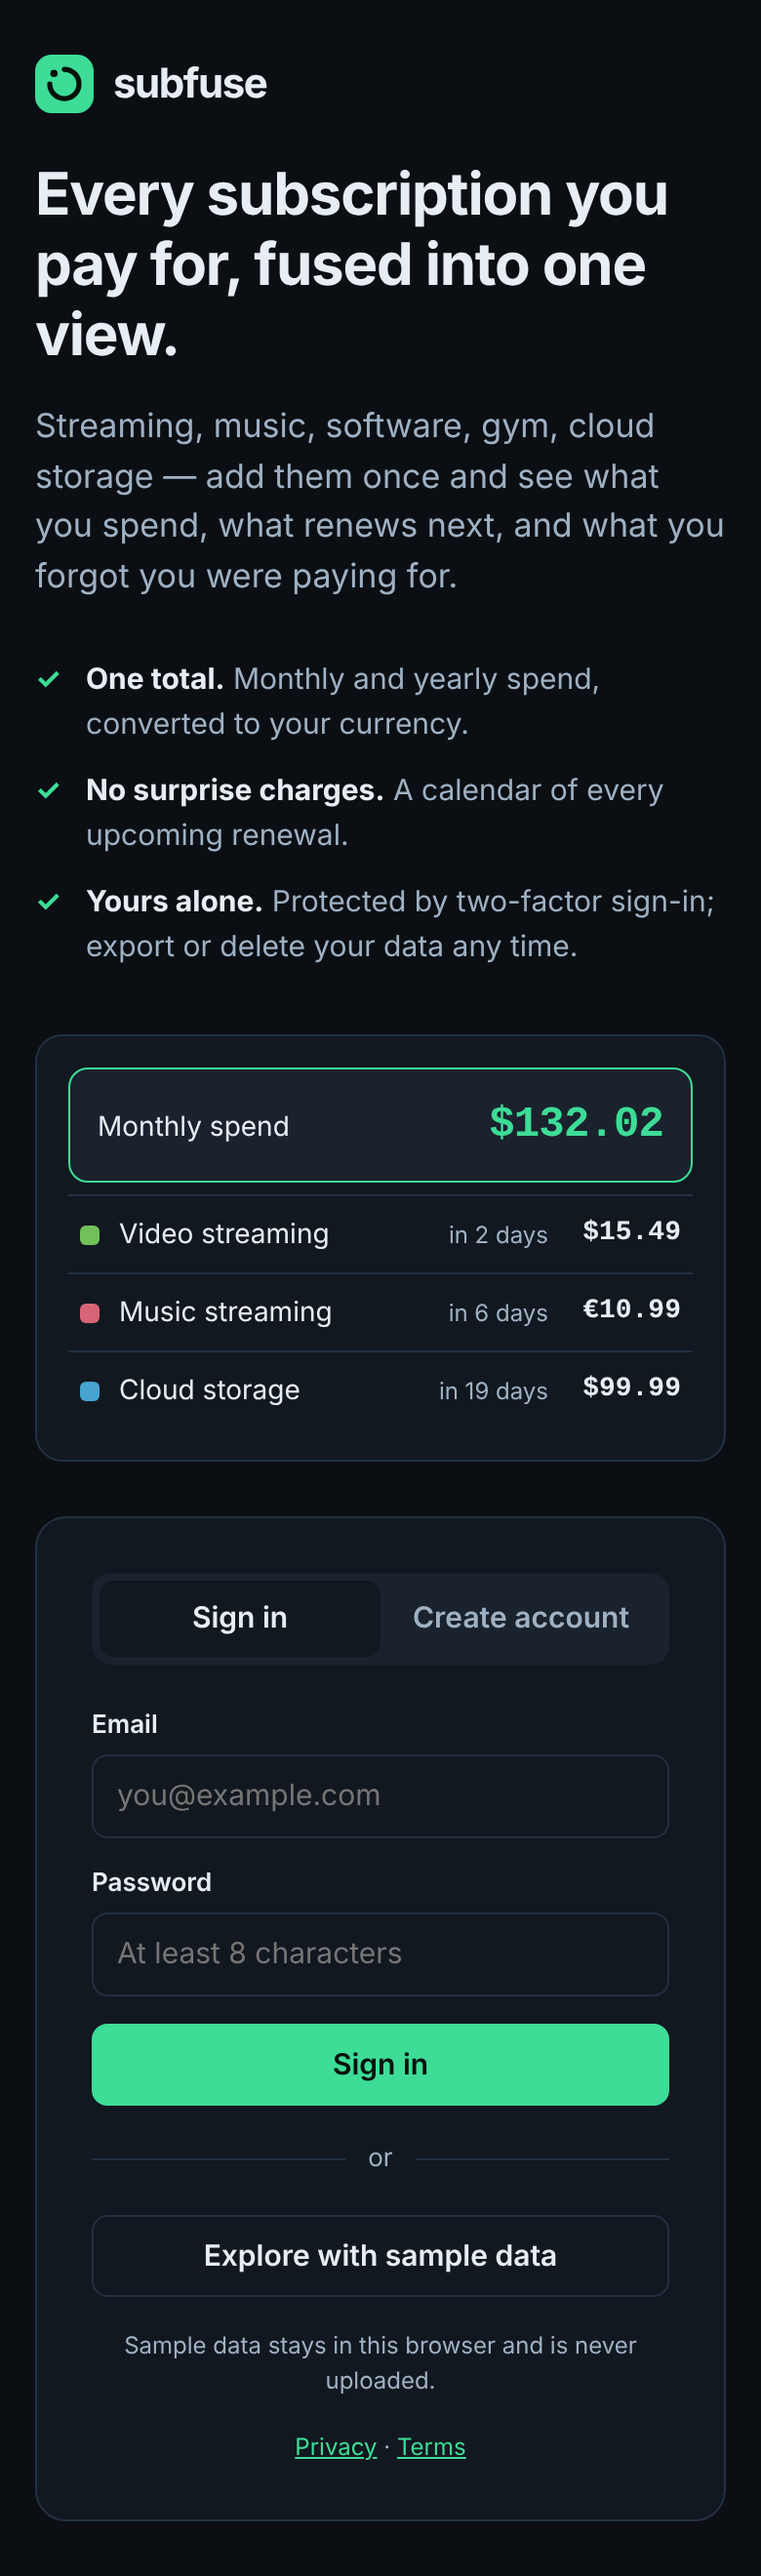
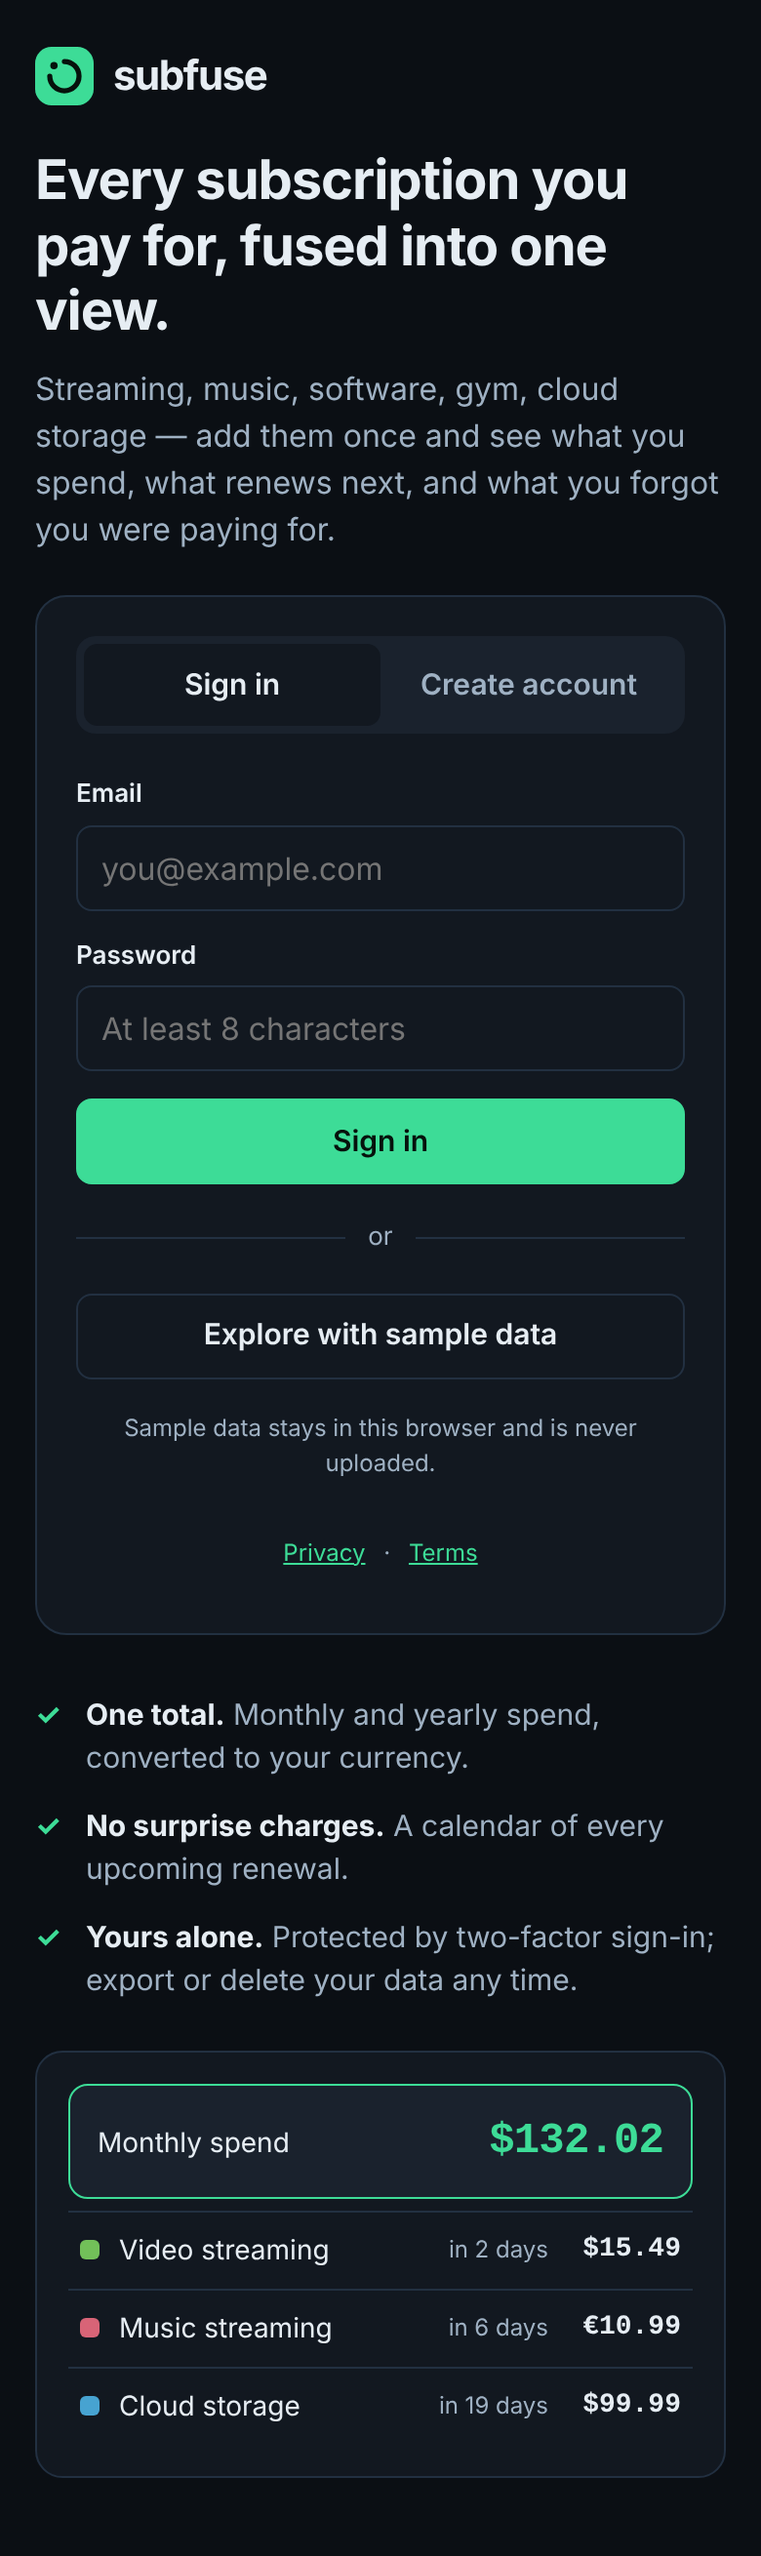
Make every screen work on phones
Sign-in form first, no sideways scrolling down to 320px, larger tap
targets, 16px inputs (no iOS zoom), bottom-sheet dialogs, safe-area
padding, and a calendar that shows dots plus a list of charges.

Claude-Session: https://claude.ai/code/session_01DhdaTEMYwt7wqwKp2ANgVY

diff --git a/server/wwwroot/styles.css b/server/wwwroot/styles.css
@@ -104,6 +104,7 @@ a { color: var(--accent); }
 /* ---------- Auth ---------- */
 .auth {
   min-height: 100vh;
+  min-height: 100dvh;
   display: grid;
   grid-template-columns: minmax(0, 1.1fr) minmax(340px, 440px);
   gap: 56px;
@@ -211,7 +212,7 @@ a { color: var(--accent); }
 .list li:first-child { border-top: 0; padding-top: 0; }
 .list .grow { flex: 1; min-width: 0; }
 .list .name { font-weight: 600; }
-.pill { display: inline-block; padding: 2px 8px; border-radius: 99px; font-size: 12px; font-weight: 600; background: var(--surface-2); color: var(--muted); }
+.pill { display: inline-block; white-space: nowrap; padding: 2px 8px; border-radius: 99px; font-size: 12px; font-weight: 600; background: var(--surface-2); color: var(--muted); }
 .pill.soon { background: var(--warn-bg); color: var(--warn-ink); }
 .empty { color: var(--muted); text-align: center; padding: 28px 12px; margin: 0; }
 
@@ -244,6 +245,8 @@ a { color: var(--accent); }
 .cal-cell.is-today { border-color: var(--accent); }
 .cal-cell.is-today .cal-day { color: var(--accent); font-weight: 700; }
 .cal-day { color: var(--muted); margin-bottom: 4px; }
+.agenda { display: none; margin-top: 16px; }
+.agenda-day { flex: none; width: 62px; color: var(--muted); font-size: 13px; }
 .cal-event { font-family: var(--mono); font-size: 11px; background: var(--accent-soft); color: var(--text); border-radius: 5px; padding: 2px 6px; margin-top: 3px; display: flex; justify-content: space-between; gap: 6px; }
 .cal-event span:first-child { overflow: hidden; text-overflow: ellipsis; white-space: nowrap; }
 #cal-total { margin: 14px 0 0; }
@@ -263,6 +266,7 @@ a { color: var(--accent); }
 dialog {
   border: 1px solid var(--border); border-radius: 16px; padding: 24px;
   width: min(460px, calc(100vw - 32px));
+  max-height: calc(100dvh - 32px); overflow-y: auto;
   background: var(--surface); color: var(--text);
 }
 dialog::backdrop { background: rgba(10, 12, 16, .5); }
@@ -293,29 +297,55 @@ dialog p.muted { margin: 0 0 16px; }
 
 /* ---------- Responsive ---------- */
 @media (max-width: 900px) {
-  .auth { grid-template-columns: 1fr; gap: 28px; padding: 28px 18px; }
-  .auth-pitch h1 { margin-top: 24px; }
+  /* Sign-in first: name, headline, form, then the details. */
+  .auth { grid-template-columns: minmax(0, 1fr); gap: 0; padding: 24px 18px 40px; align-items: start; align-content: start; min-height: 0; }
+  .auth-pitch { display: contents; }
+  .auth-pitch .brand { order: 1; }
+  .auth-pitch h1 { order: 2; margin: 22px 0 10px; font-size: clamp(26px, 7.2vw, 38px); }
+  .auth-pitch .lead { order: 3; font-size: 16px; margin: 0 0 22px; }
+  .auth-card { order: 4; padding: 20px; }
+  .pitch-list { order: 5; margin-top: 30px; }
+  .preview { order: 6; margin-top: 24px; max-width: none; }
   .kpis { grid-template-columns: repeat(2, minmax(0, 1fr)); }
-  .two-col { grid-template-columns: 1fr; }
+  .two-col { grid-template-columns: minmax(0, 1fr); }
 }
 @media (max-width: 720px) {
   .app { grid-template-columns: minmax(0, 1fr); }
   .sidebar {
     position: fixed; top: auto; bottom: 0; left: 0; right: 0; z-index: 5;
-    height: auto; flex-direction: row; padding: 6px;
+    height: auto; flex-direction: row;
+    padding: 6px max(6px, env(safe-area-inset-right)) calc(6px + env(safe-area-inset-bottom)) max(6px, env(safe-area-inset-left));
     border-right: 0; border-top: 1px solid var(--border);
   }
   .sidebar .brand, .sidebar-user { display: none; }
-  .nav { grid-template-columns: repeat(4, 1fr); width: 100%; }
-  .nav-item { flex-direction: column; gap: 2px; font-size: 11px; padding: 6px 2px; align-items: center; }
-  .main { padding: 18px 14px 90px; }
-  .toast { bottom: 84px; }
-  .toolbar { grid-template-columns: 1fr 1fr; }
+  .nav { grid-template-columns: repeat(4, minmax(0, 1fr)); width: 100%; }
+  .nav-item { flex-direction: column; gap: 3px; font-size: 11px; padding: 7px 2px; align-items: center; min-height: 48px; justify-content: center; }
+  .nav-item span { max-width: 100%; overflow: hidden; text-overflow: ellipsis; white-space: nowrap; }
+  .nav-ico { width: 20px; height: 20px; }
+  .main { padding: 16px 14px calc(96px + env(safe-area-inset-bottom)); min-width: 0; }
+  .toast { bottom: calc(84px + env(safe-area-inset-bottom)); }
+  .topbar { margin-bottom: 16px; }
+  h2 { font-size: 20px; }
+  .card { padding: 16px; }
+
+  /* Comfortable to tap, and 16px text so iPhones do not zoom in when a field is focused. */
+  input, select { font-size: 16px; min-height: 44px; }
+  .btn { min-height: 44px; }
+  .btn-sm { min-height: 40px; padding: 5px 14px; }
+  .icon-btn { min-height: 40px; padding: 8px 10px; }
+  .tab { min-height: 42px; }
+
+  .kpis { gap: 10px; }
+  .kpi-value { font-size: 21px; }
+  .kpi-sub { overflow: hidden; text-overflow: ellipsis; white-space: nowrap; }
+  .list li { gap: 10px; }
+
+  .toolbar { grid-template-columns: minmax(0, 1fr) minmax(0, 1fr); }
   .toolbar input { grid-column: 1 / -1; }
   /* Table rows become two-line cards: service + price, then renewal + actions */
   .table thead { display: none; }
   .table, .table tbody { display: block; }
-  .table tr { display: grid; grid-template-columns: minmax(0, 1fr) auto; gap: 6px 12px; align-items: center; padding: 12px 14px; border-bottom: 1px solid var(--border); }
+  .table tr { display: grid; grid-template-columns: minmax(0, 1fr) auto; gap: 4px 12px; align-items: center; padding: 12px 14px; border-bottom: 1px solid var(--border); }
   .table tbody tr:last-child { border-bottom: 0; }
   .table td { padding: 0; border: 0; }
   .table td:nth-child(2), .table td:nth-child(3) { display: none; }
@@ -324,6 +354,36 @@ dialog p.muted { margin: 0 0 16px; }
   .table td:nth-child(4) { grid-area: 2 / 1; color: var(--muted); font-size: 13px; }
   .table td:nth-child(6) { grid-area: 2 / 2; }
   .svc { min-width: 0; white-space: normal; }
-  .cal-cell { min-height: 58px; padding: 4px; }
-  .cal-event span:last-child { display: none; }
+  .row-actions { gap: 0; margin-right: -8px; }
+
+  /* Calendar: a dot per charge in the grid, the names in a list underneath. */
+  .cal-dow, .cal-grid { gap: 4px; }
+  .cal-cell { min-height: 46px; padding: 4px; display: flex; flex-wrap: wrap; align-content: flex-start; gap: 3px; }
+  .cal-day { width: 100%; margin: 0; }
+  .cal-event { width: 7px; height: 7px; padding: 0; margin: 0; border-radius: 50%; background: var(--accent); }
+  .cal-event span { display: none; }
+  .agenda { display: block; }
+
+  .setting-row { flex-wrap: wrap; gap: 10px; }
+  .setting-row > div { flex: 1 1 200px; }
+
+  /* Dialogs sit at the bottom of the screen, within thumb reach. */
+  dialog { width: 100%; max-width: 100%; margin: auto 0 0; border-radius: 18px 18px 0 0; border-width: 1px 0 0; padding: 20px 18px calc(20px + env(safe-area-inset-bottom)); max-height: 92dvh; }
+  .dialog-actions .btn { flex: 1; }
+  .codes { grid-template-columns: 1fr; }
+  .legal { padding: 24px 18px 60px; }
+  .fineprint a { display: inline-block; padding: 12px 6px; }
+}
+@media (max-width: 480px) {
+  .wide-only { display: none; }
+  .topbar h2 { min-width: 0; overflow: hidden; text-overflow: ellipsis; white-space: nowrap; }
+}
+@media (max-width: 380px) {
+  .field-row { grid-template-columns: minmax(0, 1fr); gap: 0; }
+  .list .avatar { display: none; }
+  .nav-item { font-size: 10px; letter-spacing: -.01em; }
+  /* Too narrow for date and actions side by side: actions get their own line. */
+  .table td:nth-child(4) { grid-area: 2 / 1 / 3 / 3; }
+  .table td:nth-child(6) { grid-area: 3 / 1 / 4 / 3; }
+  .row-actions { justify-content: flex-start; margin: 0 0 0 -10px; }
 }

diff --git a/server/wwwroot/index.html b/server/wwwroot/index.html
@@ -2,7 +2,7 @@
 <html lang="en" data-theme="dark">
 <head>
   <meta charset="utf-8">
-  <meta name="viewport" content="width=device-width, initial-scale=1">
+  <meta name="viewport" content="width=device-width, initial-scale=1, viewport-fit=cover">
   <meta name="description" content="Subfuse keeps every subscription you pay for in one place: what you spend each month and when each one renews.">
   <meta name="theme-color" content="#0b0f14">
   <title>Subfuse — every subscription in one place</title>
@@ -87,7 +87,7 @@
   <div class="main">
     <header class="topbar">
       <h2 id="view-title">Overview</h2>
-      <button class="btn btn-primary" id="add-btn">+ Add subscription</button>
+      <button class="btn btn-primary" id="add-btn" aria-label="Add subscription">+ Add<span class="wide-only"> subscription</span></button>
     </header>
 
     <!-- Overview -->
@@ -139,6 +139,7 @@
         <div class="cal-dow" id="cal-dow"></div>
         <div class="cal-grid" id="cal-grid"></div>
         <p class="muted small" id="cal-total"></p>
+        <ul class="list agenda" id="cal-agenda"></ul>
       </div>
     </section>
 

diff --git a/server/wwwroot/app.js b/server/wwwroot/app.js
@@ -341,6 +341,12 @@
     }
     $('#cal-grid').replaceChildren(...cells);
     $('#cal-total').textContent = total ? `Charges this month: ${money(total, cur)}` : 'No charges this month.';
+    // Phones show dots in the grid and this list underneath, since names do not fit in the day cells.
+    $('#cal-agenda').replaceChildren(...Object.keys(events).map(Number).sort((x, y) => x - y).flatMap((day) =>
+      events[day].map((sub) => el('li', {},
+        el('span.agenda-day', {}, fmtDate(new Date(y, m, day), { weekday: 'short', day: 'numeric' })),
+        el('div.grow.name.truncate', {}, sub.name),
+        el('div.num', {}, money(sub.amount, sub.currency))))));
   };
 
   const renderSettings = () => {

diff --git a/server/wwwroot/privacy.html b/server/wwwroot/privacy.html
@@ -2,7 +2,7 @@
 <html lang="en" data-theme="dark">
 <head>
   <meta charset="utf-8">
-  <meta name="viewport" content="width=device-width, initial-scale=1">
+  <meta name="viewport" content="width=device-width, initial-scale=1, viewport-fit=cover">
   <title>Privacy — Subfuse</title>
   <link rel="icon" type="image/svg+xml" href="favicon.svg">
   <link rel="stylesheet" href="styles.css">

diff --git a/server/wwwroot/terms.html b/server/wwwroot/terms.html
@@ -2,7 +2,7 @@
 <html lang="en" data-theme="dark">
 <head>
   <meta charset="utf-8">
-  <meta name="viewport" content="width=device-width, initial-scale=1">
+  <meta name="viewport" content="width=device-width, initial-scale=1, viewport-fit=cover">
   <title>Terms — Subfuse</title>
   <link rel="icon" type="image/svg+xml" href="favicon.svg">
   <link rel="stylesheet" href="styles.css">
